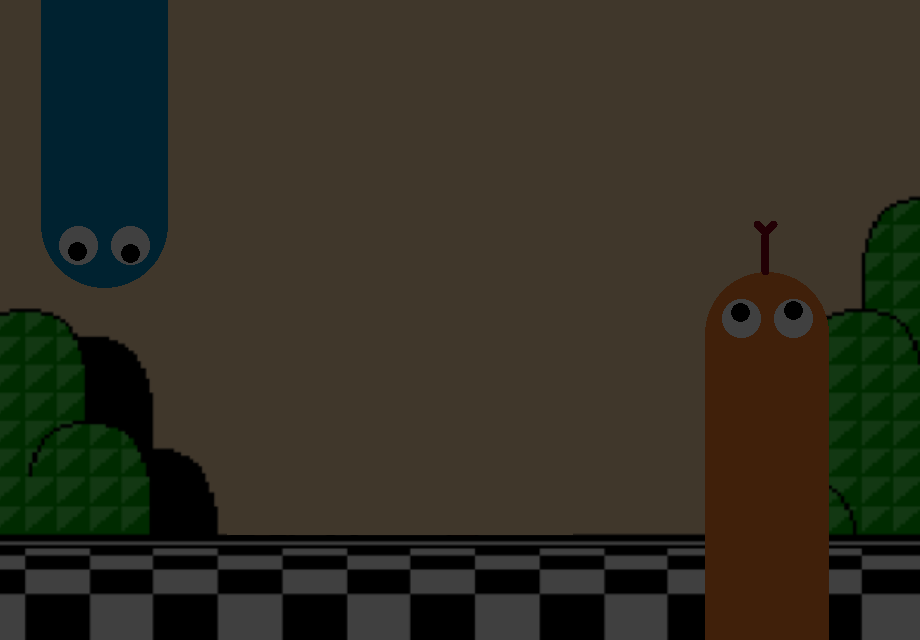
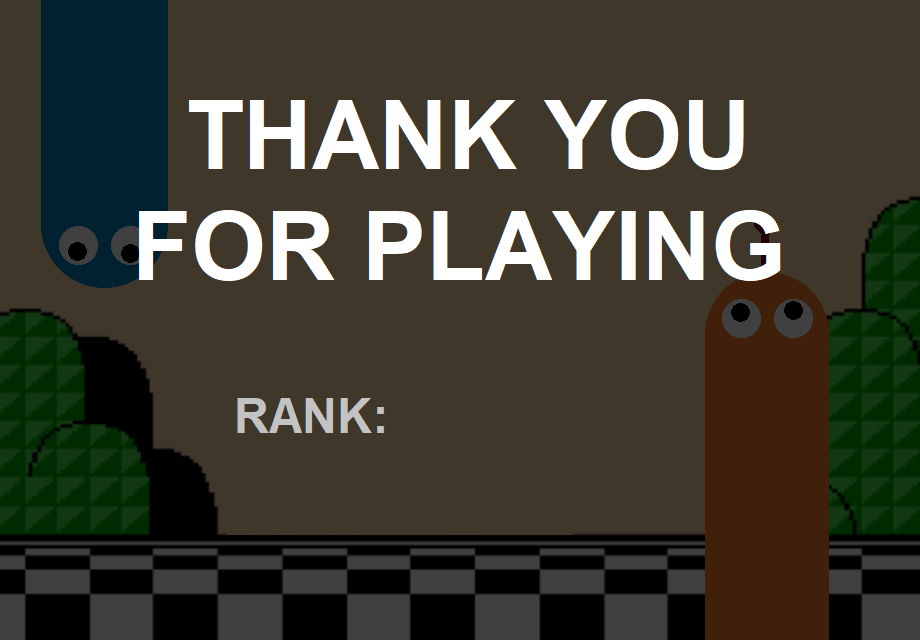
ending added
2019142034 조용준

diff --git a/project/module_state/ending.py b/project/module_state/ending.py
@@ -1,0 +1,50 @@
+from pico2d import *
+from module_object.buttons_obj import *
+from module_other.event_table_module import *
+from module_object.background_obj import *
+from module_object.star_obj import *
+from module_object.rank_obj import *
+import module_other.state_changer as sc
+import module_other.game_world as gw
+
+def handle_events():
+    events = get_events()
+    for raw_event in events:
+        event = convert_event(raw_event)
+        if event == QUIT:
+            sc.change_state('', None)
+        elif raw_event.type == SDL_KEYDOWN:
+            sc.change_state('title', None)
+
+def load_score(n):
+    try:
+        file = open('datas/savestar' + n + '.txt', 'r')
+        num = int(file.read())
+    except:
+        return 0
+    return num
+
+def enters(option):
+    star_sum = 0
+    for i in '1234':
+        star_sum += load_score(i)
+    gw.add_object(Background('ends'), 0)
+    gw.add_object(Rank(star_sum), 1)
+
+def exits():
+    gw.clear_world()
+
+def draw_all():
+    clear_canvas()
+    for objs in gw.all_objects():
+        objs.draw()
+    update_canvas()
+
+def update():
+    for objs in gw.all_objects():
+        objs.update()
+
+cur_game_data = None
+buttons = None
+stars = None
+star_sum = 0

diff --git a/project/module_state/snake_move.py b/project/module_state/snake_move.py
@@ -26,6 +26,9 @@ def is_game_ended():
         return
 
 def handle_events():
+    if cur_stage == '5':
+        sc.change_state('ending', None)
+        return
     Enemy_body.enemy_set_bomb()
     Enemy_body.enemy_screen_off()
     Enemy_body.create_cloud()
@@ -45,6 +48,10 @@ def enters(data):
     global cur_char, cur_stage
     if(data == None): data = '11'
     cur_char, cur_stage = data[0], data[1]
+
+    if data[1] == '5':
+        return
+
     frame = 0
     field_array = field_array_reset()
     isended = 0
@@ -72,8 +79,11 @@ def exits():
     gw.clear_world()
 
 def draw_all():
-    global field_array, apples, frame
-    global enemy_char
+    if cur_stage == '5':
+        sc.change_state('ending', None)
+        return
+
+    global field_array, frame
     clear_canvas()
     gw.field_array = field_array_reset()
     for objs in gw.all_objects():
@@ -82,6 +92,9 @@ def draw_all():
     # pprint(game_world.field_array)
 
 def update():
+    if cur_stage == '5':
+        sc.change_state('ending', None)
+        return
     for objs in gw.all_objects_copy():
         objs.update()
     gw.rotate_object(1, 'player')

diff --git a/project/module_object/background_obj.py b/project/module_object/background_obj.py
@@ -9,6 +9,7 @@ class Background():
     image_selc = None
     image_howt = None
     image_over = None
+    image_ends = None
     def __init__(self, type):
         self.type = type
         if(Background.image_main == None and self.type == 'main'):
@@ -23,6 +24,8 @@ class Background():
             Background.image_howt = load_image('img/book.png')
         elif(Background.image_over == None and self.type == 'over'):
             Background.image_over = load_image('img/black_screen.png')
+        elif(Background.image_ends == None and self.type == 'ends'):
+            Background.image_ends = load_image('img/ending_bg.png')
         self.image = eval('Background.image_' + self.type)
     def draw(self):
         self.image.draw(UI_WIDTH//2, UI_HEIGHT//2)

diff --git a/project/module_object/rank_obj.py b/project/module_object/rank_obj.py
@@ -1,0 +1,18 @@
+from pico2d import *
+
+def star_num_to_rank(num):
+    if num <= 4: return '4'
+    if num <= 6: return '3'
+    if num <= 8: return '2'
+    if num <= 10: return '1'
+    else: return '0'
+
+class Rank():
+    def __init__(self, num):
+        self.num = num
+        self.frame = 0
+        self.image = load_image('img/rank_' + star_num_to_rank(num) + '.png')
+    def draw(self):
+        self.image.draw(540, 640 - 420)
+    def update(self):
+        pass

diff --git a/project/module_state/title_menu.py b/project/module_state/title_menu.py
@@ -10,8 +10,8 @@ def is_able_load():
     try:
         file = open('datas/savedata.txt', 'r')
         filestring = file.read(2)
-        for i in range(2):
-            if filestring[i] not in ('1','2','3','4'): 1/0
+        if filestring[0] not in ('1','2','3','4'): 1/0
+        if filestring[1] not in ('1','2','3','4','5'): 1/0
     except:
         loaded_dat = 'failed'
         return load_image('img/title_menu_load_unable.png'), False

diff --git a/project/module_other/game_world.py b/project/module_other/game_world.py
@@ -22,8 +22,8 @@ cur_world = None
 state_list = [
     'title', 'title_menu', 'select_char',
     'option_setting', 'how_to_play', 'game_menu',
-    'game_clear', 'game_over'
-]
+    'game_clear', 'game_over', 'ending'
+] #snake_move is not included
 
 for state_name in state_list:
     world[state_name] = [[] for _ in range(obj_list_len)]

diff --git a/project/module_other/state_changer.py b/project/module_other/state_changer.py
@@ -8,6 +8,7 @@ import module_state.select_char
 import module_state.how_to_play
 import module_state.game_clear
 import module_state.game_over
+import module_state.ending
 from time import time
 
 def change_state(next_module_str, next_module_option_str, next_data = None):

diff --git a/project/module_object/star_obj.py b/project/module_object/star_obj.py
@@ -1,4 +1,3 @@
-from math import *
 from pico2d import *
 
 START_X = (-160, 300, 1160)
